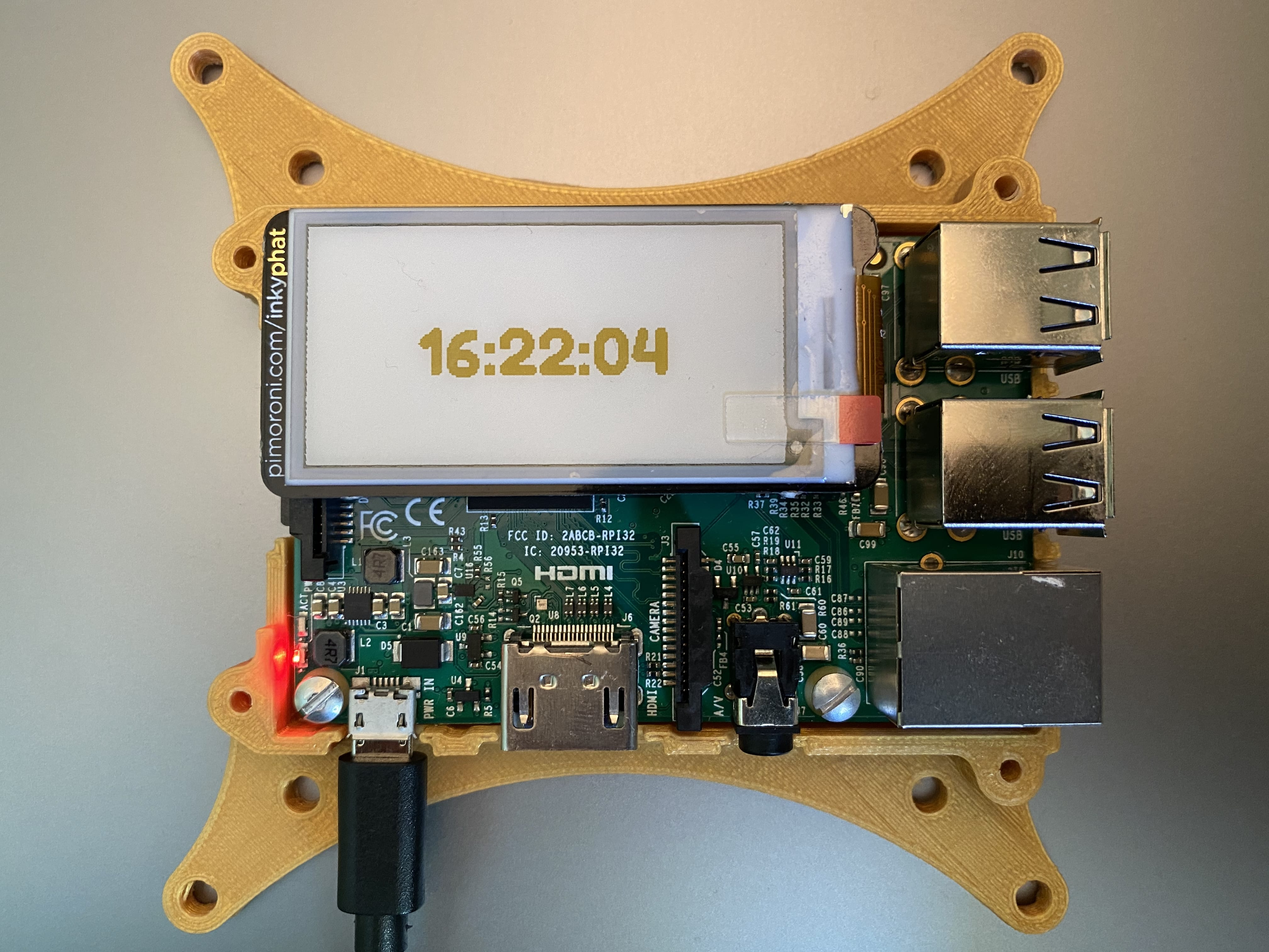
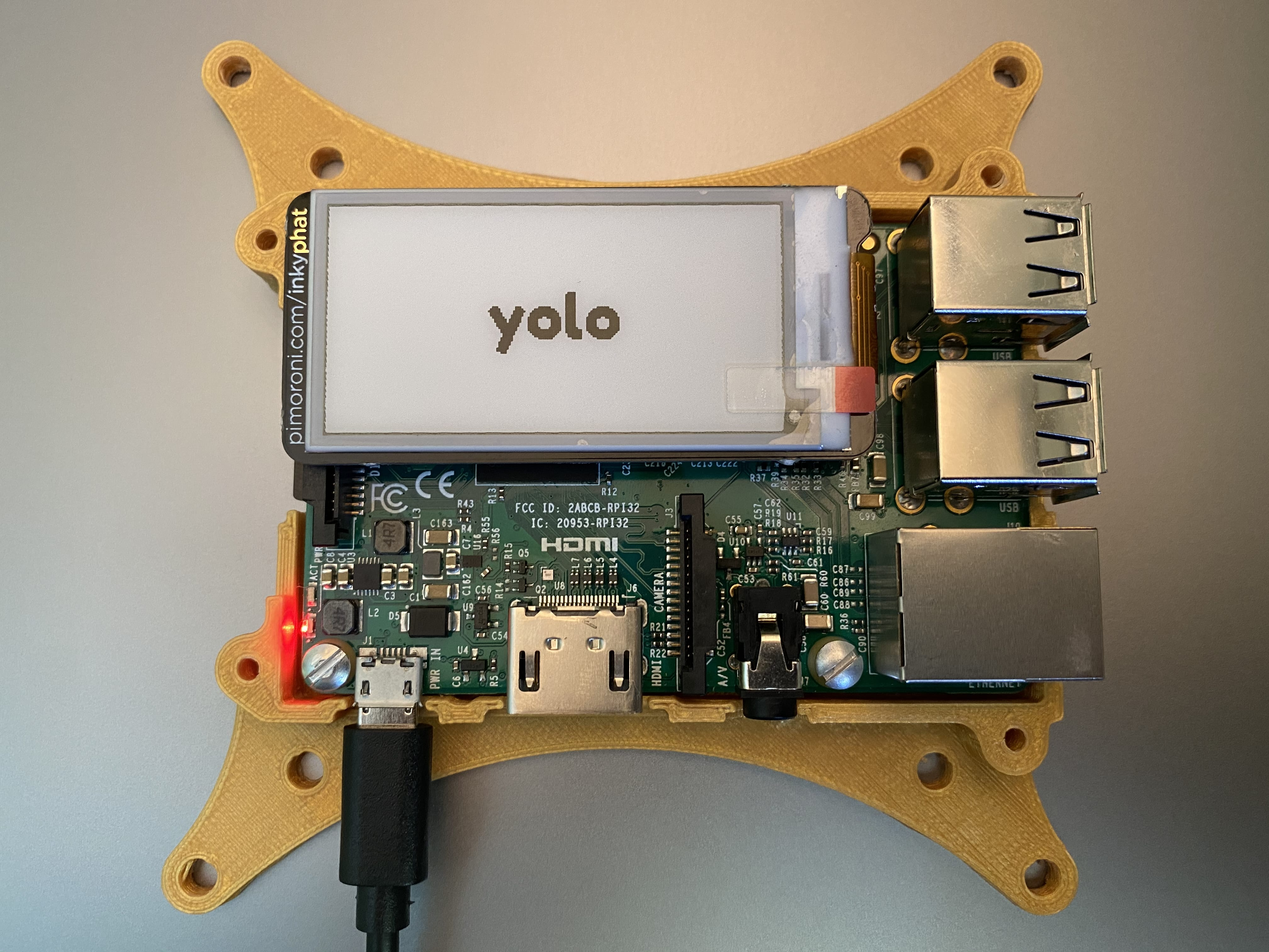
updated image and made display color black to be more universal

diff --git a/display.py b/display.py
@@ -12,7 +12,7 @@ from inky import InkyPHAT  # pylint: disable=import-error
 
 def print_text(text):
     """Displays text that is passed as an argument"""
-    inky_display = InkyPHAT("yellow")
+    inky_display = InkyPHAT("black")
     inky_display.set_border(inky_display.WHITE)
     img = Image.new("P", (inky_display.WIDTH, inky_display.HEIGHT))
     draw = ImageDraw.Draw(img)
@@ -21,7 +21,7 @@ def print_text(text):
     width, height = font.getsize(message)
     x_axis = (inky_display.WIDTH / 2) - (width / 2)
     y_axis = (inky_display.HEIGHT / 2) - (height / 2)
-    draw.text((x_axis, y_axis), message, inky_display.YELLOW, font)
+    draw.text((x_axis, y_axis), message, inky_display.BLACK, font)
     inky_display.set_image(img)
     inky_display.show()
 

diff --git a/README.md b/README.md
@@ -12,8 +12,8 @@ Table of Contents
 
 The Inky pHAT and Inky wHAT are eink displays made by Pimoroni (<https://bit.ly/2xTrfHB>). I like using them to test thing when developing programs on the Raspberry Pi. Though the screens are nice, the installation process is a pain, takes a long time, and isn't automated.
 
-![Diagram](https://raw.githubusercontent.com/himalayanelixir/arduino-pi-ceiling-sculpture/master/docs/arduino-pi-ceiling-sculpture-diagram.png)
-<p align="center"><i>Entire system</i></p>
+![Diagram](https://raw.githubusercontent.com/himalayanelixir/pi-inky-phat/master/docs/pi-inky-phat.jpg)
+<p align="center"><i>Raspberry Pi 3 with Inky pHAT</i></p>
 
 
 # Installation
